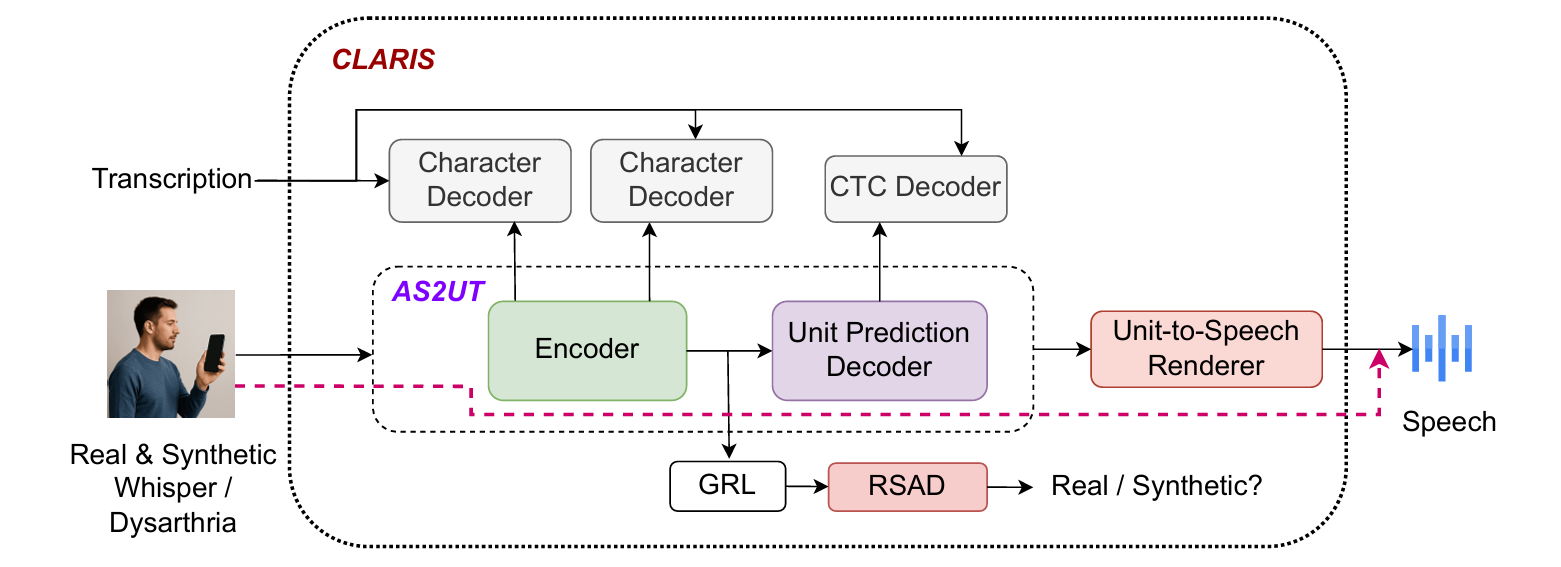
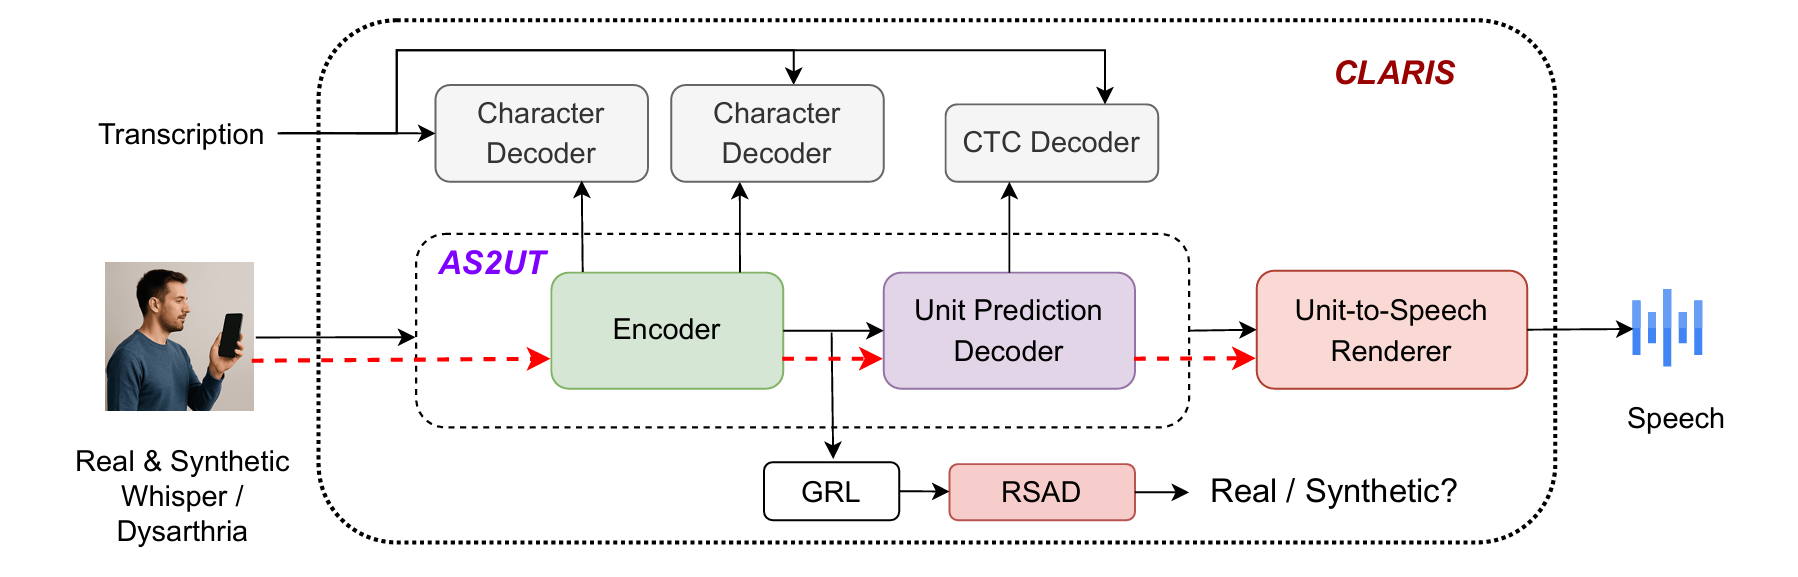
Added more samples for some experiments

Changed region(s): [[0.0307, 0.03, 0.984, 0.8995], [0.1845, 0.8695, 0.861, 0.9894], [0.0307, 0.7795, 0.1845, 0.9594]]

diff --git a/scripts.js b/scripts.js
@@ -13,8 +13,12 @@ const tablesData = [
       "CLARIS": "claris",
     },
     rows: [
-      { inputAudio: "s000_004.mp3", speaker: "s000", text: "jane may earn more money by working hard" },
-      { inputAudio: "s006_009.mp3", speaker: "s006", text: "where were you while we were away" }
+      { inputAudio: "s000_006.mp3", speaker: "s000", text: "why yell or worry over silly items" },
+      { inputAudio: "s000_007.mp3", speaker: "s000", text: "nothing is as offensive as innocence"},
+      { inputAudio: "s006_003.mp3", speaker: "s006", text: "this was easy for us"},
+      { inputAudio: "s006_004.mp3", speaker: "s006", text: "jane may earn more money by working hard" },
+      { inputAudio: "s009_005.mp3", speaker: "s009", text: "she is thinner than I am" },
+      { inputAudio: "s009_009.mp3", speaker: "s009", text: "where were you while we were away" }
     ]
   },
   {
@@ -31,8 +35,10 @@ const tablesData = [
       "CLARIS": "claris",
     },
     rows: [
-      { inputAudio: "s127_004.mp3", speaker: "s000", text: "jane may earn more money by working hard" },
-      { inputAudio: "s130_009.mp3", speaker: "s006", text: "where were you while we were away" }
+      { inputAudio: "s127_009.mp3", speaker: "s127", text: "where were you while we were away" },
+      { inputAudio: "s130_003.mp3", speaker: "s130", text: "this was easy for us" },
+      { inputAudio: "s130_004.mp3", speaker: "s130", text: "jane may earn more money by working hard" },
+      { inputAudio: "s131_009.mp3", speaker: "s131", text: "where were you while we were away" }
     ]
   },
   {
@@ -55,6 +61,18 @@ const tablesData = [
             text: "for example, with more readiness and dexterity than any other." 
         },
         { 
+            inputAudio: "speaker01_english_nonnative_effort1_10_2.mp3", 
+            text: "he frequently exchanges them for cattle or for venison" 
+        },
+        { 
+            inputAudio: "speaker01_english_nonnative_effort1_10_10.mp3", 
+            text: "and he becomes a sort of armourer" 
+        },
+        { 
+            inputAudio: "speaker01_english_nonnative_effort1_10_12.mp3", 
+            text: "he is accustomed to be of use in this way to his neighbours" 
+        },
+        { 
             inputAudio: "speaker01_english_nonnative_effort1_10_21.mp3", 
             text: "which is over and above his own consumption." 
         }
@@ -67,7 +85,6 @@ const tablesData = [
     hasSeverity: false,
     systems: {
         "ASR-TTS": "asr_tts",
-        "DistillW2N": "distillw2n",
         "WESPER": "wesper",
         "CLARIS": "claris"
     },
@@ -141,14 +158,6 @@ async function renderAudioTable(containerId, systems, rows, exptId, hasSpeaker, 
   thInput.style.padding = "8px";
   headerRow1.appendChild(thInput);
 
-  const thText = document.createElement("th");
-  thText.rowSpan = 2;
-  thText.textContent = "Text";
-  thText.style.textAlign = "center";
-  thText.style.padding = "8px";
-  thText.style.width = "20%";
-  headerRow1.appendChild(thText);
-
   if (hasSpeaker) {
     const thSpeaker = document.createElement("th");
     thSpeaker.rowSpan = 2;
@@ -161,7 +170,7 @@ async function renderAudioTable(containerId, systems, rows, exptId, hasSpeaker, 
   if (hasSeverity) {
     const thStyle = document.createElement("th");
     thStyle.rowSpan = 2;
-    thStyle.textContent = "Style";
+    thStyle.textContent = "Severity";
     thStyle.style.textAlign = "center";
     thStyle.style.padding = "8px";
     headerRow1.appendChild(thStyle);
@@ -173,6 +182,14 @@ async function renderAudioTable(containerId, systems, rows, exptId, hasSpeaker, 
   thGenerated.style.textAlign = "center";
   thGenerated.style.padding = "8px";
   headerRow1.appendChild(thGenerated);
+
+  const thText = document.createElement("th");
+  thText.rowSpan = 2;
+  thText.textContent = "Text";
+  thText.style.textAlign = "center";
+  thText.style.padding = "8px";
+  thText.style.width = "20%";
+  headerRow1.appendChild(thText);
 
   thead.appendChild(headerRow1);
 
